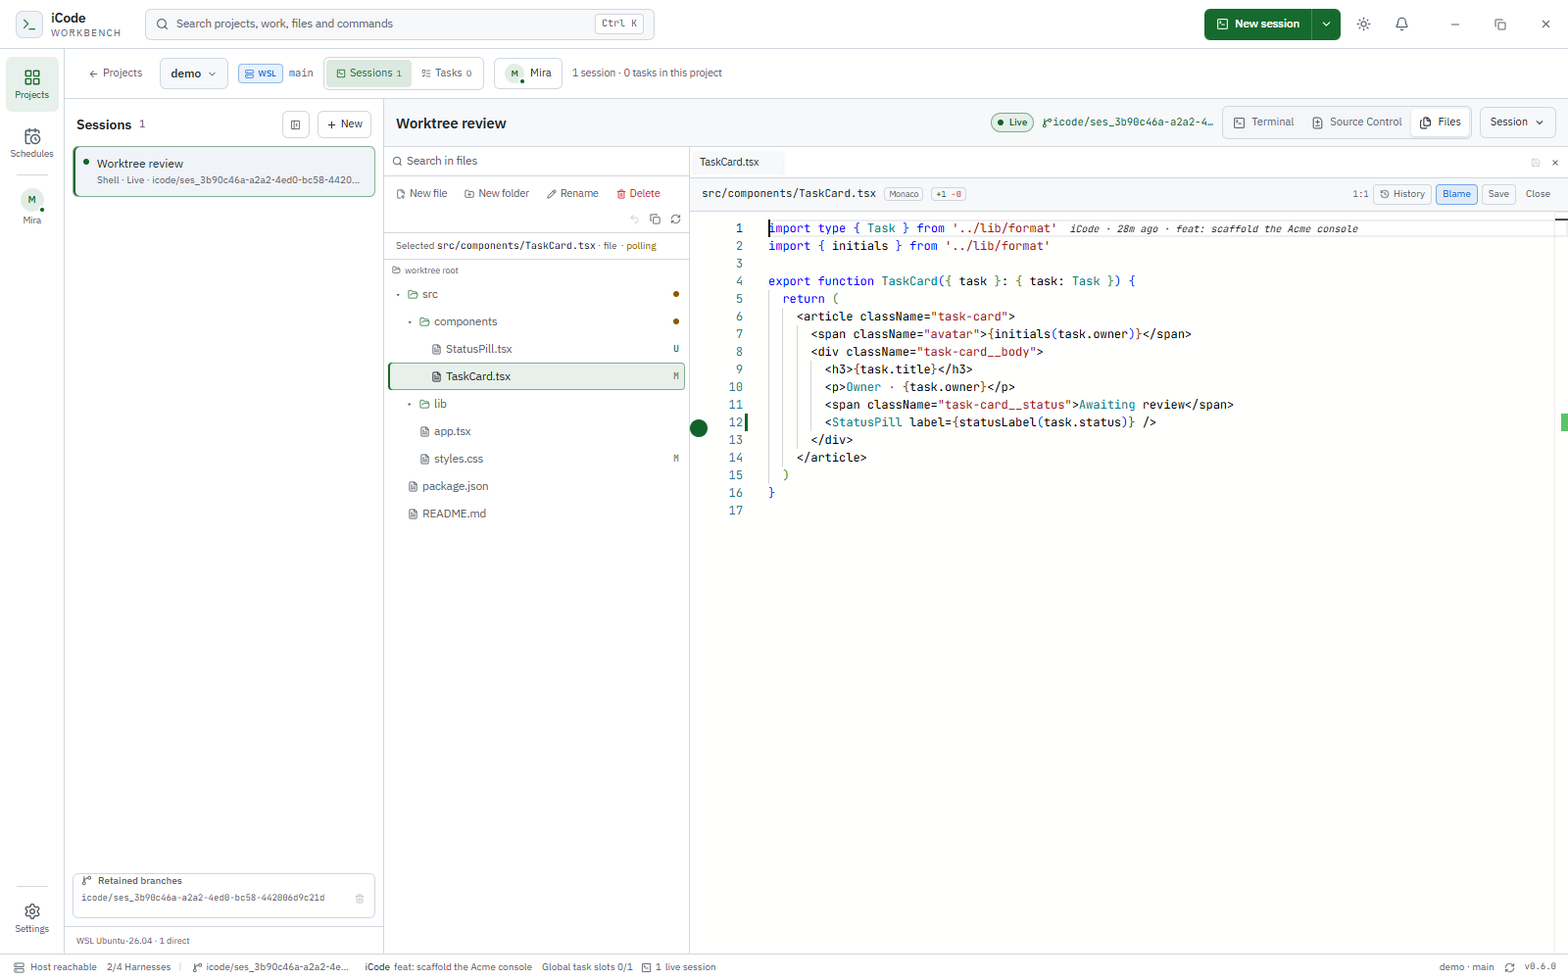
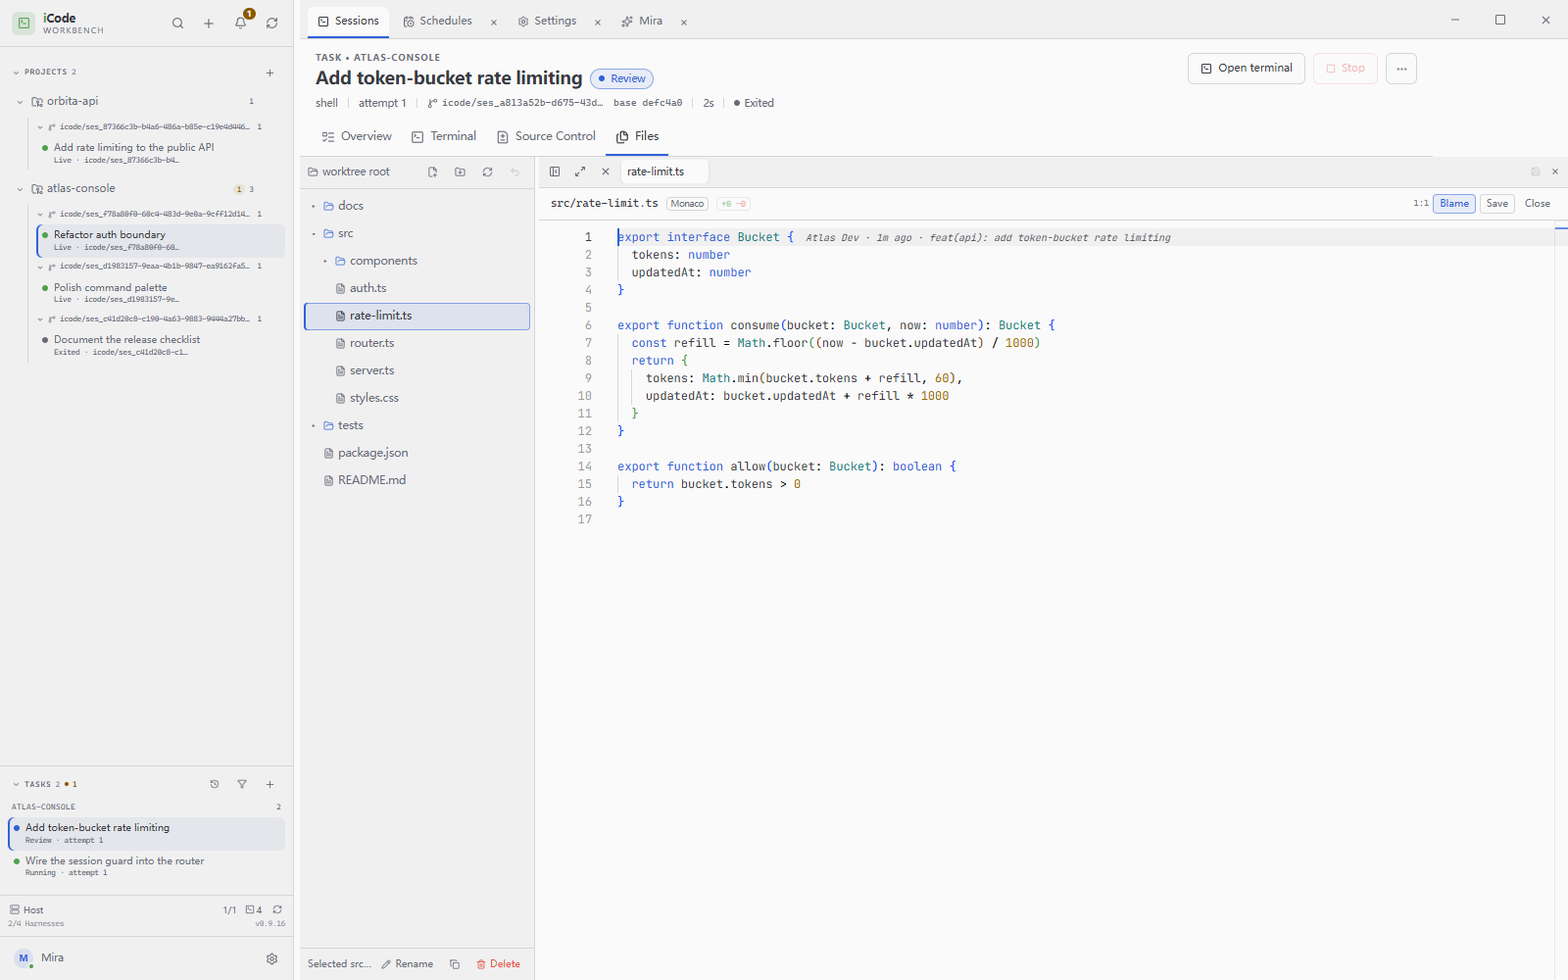
docs: refresh the Workbench tour and availability
Replace the removed Projects wall with the current sidebar and inspector, add session-row lifecycle and schedule sections, refresh the Mira, task, terminal and editor captures, and point availability at the published unsigned GitHub Releases.

diff --git a/public/workbench/index.html b/public/workbench/index.html
@@ -4,7 +4,7 @@
   <meta charset="utf-8" />
   <meta name="viewport" content="width=device-width, initial-scale=1" />
   <title>iCode Workbench — the universal agent development environment</title>
-  <meta name="description" content="iCode Workbench is the universal ADE for a team of coding agents: parallel sessions in isolated Git worktrees, durable tasks, review in the session checkout, and Mira watching every project. Pre-1.0 and in early access." />
+  <meta name="description" content="iCode Workbench is the universal ADE for a team of coding agents: one sidebar, parallel sessions in isolated Git worktrees, durable tasks, Files/Search/Source Control in one inspector, row-level lifecycle actions, and Mira watching every project. Pre-1.0; unsigned installers are published on GitHub Releases." />
   <meta name="theme-color" content="#ffffff" />
   <link rel="icon" href="../assets/favicon.svg" type="image/svg+xml" />
   <link rel="stylesheet" href="../assets/styles.css" />
@@ -23,18 +23,20 @@
         iCode Workbench is the universal ADE: every agent, every platform, one
         workbench. Run Claude Code, Codex, and OpenCode in parallel, each in its
         own Git worktree. Queue durable tasks, review changes where the agent
-        worked, and keep terminals alive when the app restarts — while Mira
-        watches every repository and tells you what needs you.
+        worked, manage any session from its own row, and keep terminals alive
+        when the app restarts — while Mira watches every repository and tells you
+        what needs you.
       </p>
       <div class="actions">
         <a class="button button-primary" href="#workbench">Explore the workbench</a>
+        <a class="button" href="https://github.com/icodehq/icode-workbench/releases/latest" rel="noopener">Download the latest release</a>
         <a class="button" href="https://github.com/icodehq/icode-workbench" rel="noopener">View on GitHub</a>
       </div>
       <p class="hero-note">Pre-1.0 · Linux (WSL2/WSLg) · Windows x64 · macOS x64 / arm64</p>
 
       <figure class="product-shot hero-shot">
-        <img src="../assets/workbench/projects-wall.png" width="1600" height="1000" alt="The iCode Workbench All projects wall showing in-flight sessions, items that need attention, and last activity across three projects" />
-        <figcaption>The Projects wall separates what is in flight, what needs you, and when each project was last active.</figcaption>
+        <img src="../assets/workbench/shell.png" width="1600" height="1000" alt="The iCode Workbench with the project and task sidebar, session and app tabs, a live terminal, and a Source Control diff in the inspector" />
+        <figcaption>One sidebar for every project, a live terminal, and a Source Control diff in the inspector.</figcaption>
       </figure>
     </div>
   </section>
@@ -45,13 +47,13 @@
       <h2>One environment, from first prompt to reviewed change.</h2>
       <div class="grid feature-grid">
         <article class="card">
-          <span class="tag">Portfolio</span>
-          <h3>One wall for every project.</h3>
+          <span class="tag">Sidebar</span>
+          <h3>One sidebar for the whole portfolio.</h3>
           <p>
-            Each row separates live direct sessions and queued tasks, the items
-            that need a person, and real last-activity timestamps. Filter by Needs
-            you, Live, or Idle, pin projects, and open a waiting task or session
-            directly from the attention list.
+            Pinned projects, direct sessions grouped by worktree, the
+            cross-project task queue, and live counts share one sidebar. Every
+            row opens its own menu: a session row carries details, sleep or wake,
+            restart, pin, and remove without switching to it first.
           </p>
         </article>
         <article class="card">
@@ -71,7 +73,8 @@
             A detached host owns the PTYs, terminal emulation, and exit truth.
             Closing the window or quitting the app does not stop a live session;
             reopening reattaches to the same PTY with its scrollback and
-            alternate-screen state intact.
+            alternate-screen state intact. Terminals follow the app appearance,
+            with a light ANSI palette on the light canvas.
           </p>
         </article>
         <article class="card">
@@ -88,10 +91,11 @@
           <span class="tag">Review</span>
           <h3>Review where the agent worked.</h3>
           <p>
-            Source Control is scoped to the session checkout: changes against the
-            task baseline, staged and untracked files, inline diffs, line notes
-            sent back to the agent, and commit, amend, push, history, cherry-pick,
-            revert, or reset.
+            Files, Search, and Source Control share the persistent inspector, and
+            the task workbench gives Files and Source Control full-width tabs.
+            Changes are scoped to the session checkout: stage, inspect inline
+            diffs, send line notes back to the agent, and commit, amend, push,
+            cherry-pick, revert, or reset.
           </p>
         </article>
         <article class="card">
@@ -113,20 +117,19 @@
         <p class="eyebrow">Mira · Cross-project assistant</p>
         <h2>She watches all of it. You keep the decisions.</h2>
         <p>
-          Mira is a person item in the rail — Projects · Schedules ┊ Mira ┊
-          Settings — with an avatar, live status, and an unread badge. One
+          Mira is a person in the sidebar, not another project tab. One
           conversation spans every repository, and her answers come from the real
           projects, tasks, sessions, diffs, and review state.
         </p>
         <ul class="feature-list">
           <li><strong>She can act.</strong> Through validated actions she creates, cancels, retries, and archives tasks, messages task sessions and project supervisors, and records non-binding review recommendations.</li>
           <li><strong>She is bounded.</strong> She has no shell and no project working directory. She cannot approve a proposal, decide a review, merge, push, or edit project code.</li>
-          <li><strong>She comes to you.</strong> Approvals, failures, waiting tasks, and review-ready work become proactive messages with a rail badge and an OS notification when no window is focused. Deduplication, an hourly budget, and quiet hours keep it from becoming noise.</li>
+          <li><strong>She comes to you.</strong> Approvals, failures, waiting tasks, and review-ready work become proactive messages with a sidebar badge and an OS notification when no window is focused. Deduplication, an hourly budget, and quiet hours keep it from becoming noise.</li>
         </ul>
       </div>
       <figure class="product-shot">
-        <img src="../assets/workbench/mira.png" width="1920" height="1032" loading="lazy" alt="Mira streaming a Markdown status report with a task table, live thinking-token count, and a Stop button" />
-        <figcaption>Mira streams a Markdown status report across projects while the run line shows the harness stage, elapsed time, and thinking tokens.</figcaption>
+        <img src="../assets/workbench/mira.png" width="1600" height="1000" loading="lazy" alt="Mira answering a cross-project question with a Needs a decision and In flight summary, beside the live project and task sidebar" />
+        <figcaption>Mira reads the real queue: review-ready work, running sessions, and uncommitted changes.</figcaption>
       </figure>
     </div>
   </section>
@@ -137,14 +140,58 @@
       <h2>See the task, then see the change.</h2>
       <div class="shot-row">
         <figure class="product-shot">
-          <img src="../assets/workbench/tasks.png" width="1600" height="1000" loading="lazy" alt="The task workbench showing a review-pending task with a live session, changes against its baseline, and a review recommendation" />
-          <figcaption>The task workbench: the instruction, the live session, the changes, and a review decision.</figcaption>
+          <img src="../assets/workbench/tasks.png" width="1600" height="1000" loading="lazy" alt="The task workbench showing a finished task waiting for review, its changes against the baseline, and the review decision" />
+          <figcaption>The task workbench: the instruction, the session, changes against the baseline, and a review decision.</figcaption>
         </figure>
         <figure class="product-shot">
-          <img src="../assets/workbench/session-review.png" width="1600" height="1000" loading="lazy" alt="Source Control inside a session, showing staged and untracked changes with an inline diff" />
-          <figcaption>Source Control in the session worktree: stage, review, and commit without leaving the app.</figcaption>
+          <img src="../assets/workbench/task-review.png" width="1600" height="1000" loading="lazy" alt="Source Control in the task workbench showing a committed rate-limit source file as a side-by-side diff" />
+          <figcaption>Source Control in the task worktree: a committed diff side by side, with the file list one toggle away.</figcaption>
         </figure>
       </div>
+    </div>
+  </section>
+
+  <section class="section">
+    <div class="container-wide">
+      <p class="eyebrow">Session lifecycle</p>
+      <h2>Manage the session without opening it.</h2>
+      <p class="lede container-lede">
+        Details, sleep or wake, restart, pin, and remove are one right-click away.
+        Lifecycle actions target the row's session even when another session is on
+        screen, and an unavailable action explains why. If uncommitted or unmerged
+        work is at risk, removal names the files or the retained branch and keeps
+        the branch — there is no name to copy or type.
+      </p>
+      <div class="shot-row">
+        <figure class="product-shot">
+          <img src="../assets/workbench/session-menu.png" width="1600" height="1000" loading="lazy" alt="A session row context menu with Session details, Sleep session, Restart session, Pin to top, and Remove session" />
+          <figcaption>A session row's menu: details, sleep or wake, restart, pin, and remove. The action applies to that row, not to whichever session is open.</figcaption>
+        </figure>
+        <figure class="product-shot">
+          <img src="../assets/workbench/session-removal.png" width="1600" height="1000" loading="lazy" alt="The session removal dialog naming an uncommitted file with a single Delete changes and remove button" />
+          <figcaption>Work that would be lost is named before anything is deleted. The branch is retained; branch deletion stays a separate action.</figcaption>
+        </figure>
+      </div>
+    </div>
+  </section>
+
+  <section class="section">
+    <div class="container-wide split">
+      <div>
+        <p class="eyebrow">Schedules</p>
+        <h2>Recurring work joins the same queue.</h2>
+        <p>
+          Schedules create ordinary queued tasks on a cadence — once, daily,
+          weekdays, weekly, or every few hours — with queue-or-skip overlap
+          handling and run-now. Pausing a schedule leaves tasks already created
+          untouched, and every occurrence lands in the same task queue as work
+          you queued by hand.
+        </p>
+      </div>
+      <figure class="product-shot">
+        <img src="../assets/workbench/schedules.png" width="1600" height="1000" loading="lazy" alt="The Schedules tab with an enabled nightly dependency audit and a paused six-hour provider refresh" />
+        <figcaption>An enabled nightly audit and a paused six-hour refresh. Each occurrence becomes an ordinary queued task.</figcaption>
+      </figure>
     </div>
   </section>
 
@@ -154,11 +201,11 @@
       <h2>Terminal and editor, in the same checkout.</h2>
       <div class="shot-row">
         <figure class="product-shot">
-          <img src="../assets/workbench/session-terminal.png" width="1600" height="1000" loading="lazy" alt="A real shell session in its worktree, showing git status and recent commits" />
-          <figcaption>A real PTY in the session worktree; the detached host keeps it alive. The terminal keeps its own dark palette in both appearances.</figcaption>
+          <img src="../assets/workbench/session-terminal.png" width="1600" height="1000" loading="lazy" alt="A real shell session in its worktree, showing recent commits and a short prompt" />
+          <figcaption>A real PTY in the session worktree; the detached host keeps it alive. The terminal follows the app appearance, with a light ANSI palette on the light canvas.</figcaption>
         </figure>
         <figure class="product-shot">
-          <img src="../assets/workbench/files-editor.png" width="1600" height="1000" loading="lazy" alt="The Files panel with a worktree explorer and Monaco editor open on a TypeScript component" />
+          <img src="../assets/workbench/files-editor.png" width="1600" height="1000" loading="lazy" alt="The task Files tab with a worktree explorer and Monaco editor open on the new rate-limit source file" />
           <figcaption>Files and Monaco beside the terminal, in the same worktree.</figcaption>
         </figure>
       </div>
@@ -168,14 +215,19 @@
   <section class="section" id="install">
     <div class="container">
       <p class="eyebrow">Availability</p>
-      <h2>Early access, before 1.0.</h2>
+      <h2>Available now, before 1.0.</h2>
       <p>
-        iCode Workbench is pre-1.0 and in early access. The source is public under
-        AGPL-3.0-only; CI produces Linux x64, Windows x64, and macOS x64 / arm64
-        packages, but signed installers are not published yet. Build from source
-        for now. A modified version offered to users over a network must provide
-        them the corresponding source.
+        iCode Workbench is pre-1.0 and ships as an unsigned build. CI produces
+        Linux x64, Windows x64, and macOS x64 / arm64 packages for every tagged
+        release, and the installers are published on GitHub Releases. Windows
+        SmartScreen and macOS Gatekeeper warn on first launch; on macOS,
+        right-click the app and choose <strong>Open</strong>. The source is public
+        under AGPL-3.0-only, and a modified version offered to users over a
+        network must provide them the corresponding source.
       </p>
+      <div class="actions">
+        <a class="button button-primary" href="https://github.com/icodehq/icode-workbench/releases/latest" rel="noopener">Download the latest release</a>
+      </div>
       <p>
         <strong>Build from source.</strong> Requirements: Node 24.x (the
         repository pins 24.15.0), Corepack with pnpm 11.16.0, Git, and at least

diff --git a/public/index.html b/public/index.html
@@ -30,11 +30,11 @@
         <a class="button button-primary" href="./workbench/">Explore iCode Workbench</a>
         <a class="button" href="./agent/">Meet iCode Agent</a>
       </div>
-      <p class="hero-note">Local-first · Pre-1.0 · iCode Agent available today</p>
+      <p class="hero-note">Local-first · Pre-1.0 · Workbench and Agent available today</p>
 
       <figure class="product-shot hero-shot">
-        <img src="./assets/workbench/projects-wall.png" width="1600" height="1000" alt="The iCode Workbench All projects wall showing live sessions, tasks that need attention, and last activity across three projects" />
-        <figcaption>The Projects wall: in flight, needs you, and last activity across every repository.</figcaption>
+        <img src="./assets/workbench/shell.png" width="1600" height="1000" alt="The iCode Workbench with the project and task sidebar, session and app tabs, a live terminal, and a Source Control diff in the inspector" />
+        <figcaption>One sidebar for every project, a live terminal, and a Source Control diff in the inspector.</figcaption>
       </figure>
     </div>
   </section>
@@ -50,17 +50,18 @@
       </p>
       <div class="grid product-grid">
         <article class="card product-card">
-          <span class="tag">Desktop · ADE · Early access</span>
+          <span class="tag">Desktop · ADE · Pre-1.0</span>
           <h3>iCode Workbench</h3>
           <p>
             Run agents in parallel, queue durable tasks, review changes in the
-            session worktree, and let Mira bring the blockers to you. A detached
-            host keeps terminals alive across app restarts.
+            session checkout, and manage any session from its own row. A
+            persistent inspector holds Files, Search and Source Control, while a
+            detached host keeps terminals alive across app restarts.
           </p>
           <ul class="mini-list">
             <li>Claude Code, Codex, and OpenCode — each in its own worktree</li>
+            <li>Session rows: details, sleep/wake, restart, pin, and remove</li>
             <li>Tasks, approvals, schedules, and task history</li>
-            <li>Source Control and an editor in the same checkout</li>
           </ul>
           <a class="more" href="./workbench/">Explore iCode Workbench →</a>
         </article>
@@ -90,17 +91,17 @@
         <p class="eyebrow">Meet Mira</p>
         <h2>A teammate who watches all your projects.</h2>
         <p>
-          Mira is a person in the rail, not another project tab. One conversation
-          spans every repository: she reads the real queue, answers “what needs
-          me?”, and can create, cancel, retry, or archive work through validated
-          actions.
+          Mira is a person in the sidebar, not another project tab. One
+          conversation spans every repository: she reads the real queue, answers
+          “what needs me?”, and can create, cancel, retry, or archive work
+          through validated actions.
         </p>
         <p>
           She has no shell and no project working directory. She cannot approve a
           proposal, accept a review, merge, or push. Those stay human decisions.
         </p>
         <ul class="feature-list">
-          <li><strong>She comes to you</strong> — approvals, failures, waiting tasks, and review-ready work arrive with a rail badge and an OS notification when no window is focused.</li>
+          <li><strong>She comes to you</strong> — approvals, failures, waiting tasks, and review-ready work arrive with a sidebar badge and an OS notification when no window is focused.</li>
           <li><strong>She acts with limits</strong> — low-risk tasks can auto-dispatch under a daily cap; protected paths and keywords wait for a person.</li>
           <li><strong>She remembers</strong> — durable preferences live in Settings, visible and removable.</li>
         </ul>
@@ -109,8 +110,8 @@
         </div>
       </div>
       <figure class="product-shot">
-        <img src="./assets/workbench/mira.png" width="1920" height="1032" loading="lazy" alt="Mira streaming a Markdown status report with a task table, a live thinking-token count, and a Stop button" />
-        <figcaption>Mira streams a cross-project status report while the work line keeps the harness stage visible.</figcaption>
+        <img src="./assets/workbench/mira.png" width="1600" height="1000" loading="lazy" alt="Mira answering a cross-project question with a Needs a decision and In flight summary, beside the live project and task sidebar" />
+        <figcaption>Mira reads the real queue: review-ready work, running sessions, and uncommitted changes.</figcaption>
       </figure>
     </div>
   </section>
@@ -126,7 +127,9 @@
           <p>
             Every new session gets its own Git worktree and branch at the current
             HEAD. Two agents in the same repository never edit the same files by
-            accident.
+            accident. Its sidebar row carries details, sleep or wake, restart,
+            pin, and remove; removal names the work at risk and keeps the
+            branch.
           </p>
         </article>
         <article class="card">
@@ -160,7 +163,7 @@
         from you.
       </p>
       <div class="actions">
-        <a class="button button-primary" href="./workbench/">Get iCode Workbench</a>
+        <a class="button button-primary" href="./workbench/#install">Get iCode Workbench</a>
         <a class="button" href="./get-started/">Install iCode Agent</a>
       </div>
     </div>

diff --git a/public/about/index.html b/public/about/index.html
@@ -48,13 +48,14 @@
       <h2>Two surfaces for the same work.</h2>
       <div class="grid">
         <article class="card">
-          <span class="tag">Desktop · ADE · Early access</span>
+          <span class="tag">Desktop · ADE · Pre-1.0</span>
           <h3>iCode Workbench</h3>
           <p>
             The control room for a team of coding agents. Claude Code, Codex, and
             OpenCode run in parallel, each in its own Git worktree. Tasks,
             approvals, schedules, review, and an editor live beside the terminal,
-            and a detached host keeps sessions alive across app restarts.
+            every session row carries its own lifecycle actions, and a detached
+            host keeps sessions alive across app restarts.
           </p>
           <p>
             Mira spans every project: she answers “what needs me?”, brings
@@ -105,8 +106,8 @@
         <a href="https://github.com/icodehq/icode-agent/issues" rel="noopener">iCode Agent</a>,
         or follow
         <a href="https://github.com/icodehq" rel="noopener">iCode on GitHub</a>.
-        iCode Workbench is in early access; its source is public under
-        AGPL-3.0-only.
+        iCode Workbench is pre-1.0; its source is public under AGPL-3.0-only, and
+        unsigned installers are published on GitHub Releases.
       </p>
     </div>
   </section>

diff --git a/public/faq/index.html b/public/faq/index.html
@@ -30,7 +30,7 @@
       </details>
       <details>
         <summary><strong>How are iCode Workbench and iCode Agent different?</strong></summary>
-        <p><a href="../workbench/">iCode Workbench</a> (in early access) is the desktop ADE: it runs Claude Code, Codex, and OpenCode in parallel, each in its own Git worktree, with tasks, review, and Mira across projects. iCode Agent is the focused terminal agent described in this FAQ. They are separate products, and either works on its own.</p>
+        <p><a href="../workbench/">iCode Workbench</a> (pre-1.0) is the desktop ADE: it runs Claude Code, Codex, and OpenCode in parallel, each in its own Git worktree, with tasks, review, and Mira across projects. iCode Agent is the focused terminal agent described in this FAQ. They are separate products, and either works on its own.</p>
       </details>
       <details>
         <summary><strong>Do I need Workbench to use Agent?</strong></summary>

diff --git a/public/agent/index.html b/public/agent/index.html
@@ -120,7 +120,7 @@ icode-agent</pre></div>
       <div class="notice">
         <p><strong>How it fits with iCode Workbench.</strong></p>
         <p>
-          Workbench (in early access) is the desktop environment for a team of
+          Workbench (pre-1.0) is the desktop environment for a team of
           agents — Claude Code, Codex, and OpenCode in isolated worktrees, with
           tasks, review, and Mira. Agent is the focused terminal surface: one
           repository, one session, no window. They are separate products with the

diff --git a/README.md b/README.md
@@ -42,9 +42,10 @@ vercel.json             Vercel config (framework: null, output: _site)
   not a recorded run.
 - **Workbench screenshots are real UI captures.** They show the app, not a mockup.
   Keep their captions tied to what is visible.
-- **Workbench is early access.** Its source is public under AGPL-3.0-only, but
-  signed installers are not published yet; public pages point to the source and
-  the build-from-source path.
+- **Workbench is pre-1.0.** Its source is public under AGPL-3.0-only.
+  Unsigned installers are published on GitHub Releases; public pages point to
+  the Releases page and the build-from-source path, and state the expected
+  Windows SmartScreen and macOS Gatekeeper warnings.
 - Claims about context mechanics are backed by `evidence/context-management.md`,
   which cites the exact source files.
 - Product limits are stated in `public/workbench/` and in the Agent FAQ rather
